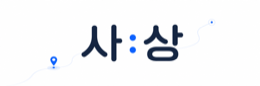
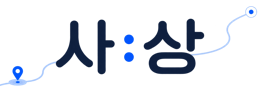
feat: 지도 홈 투명 로고 이미지 적용

diff --git a/app/src/screens/MapScreen.tsx b/app/src/screens/MapScreen.tsx
@@ -353,8 +353,8 @@ const styles = StyleSheet.create({
     gap: 1,
   },
   brandTextImage: {
-    height: 27,
-    width: 82,
+    height: 30,
+    width: 84,
   },
   container: { backgroundColor: "#FAFAFA", flex: 1 },
   headerRow: {
